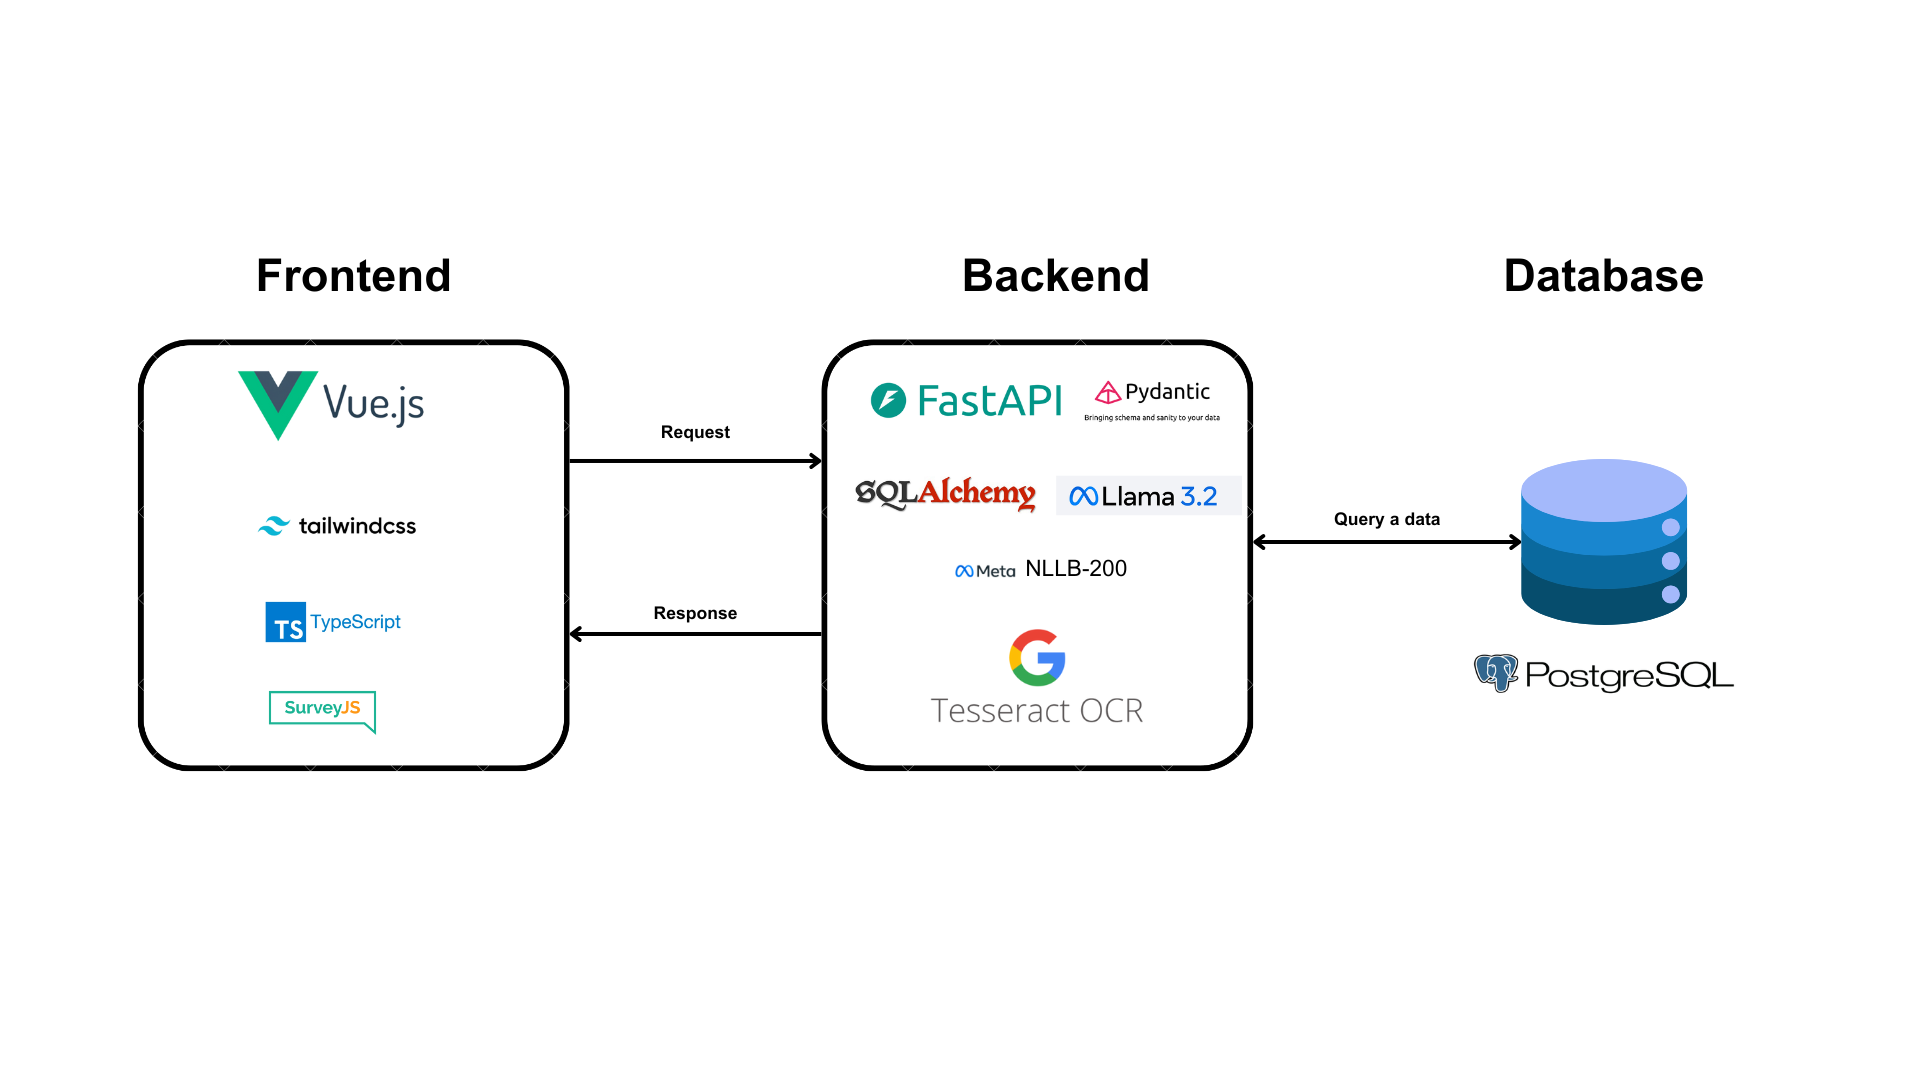
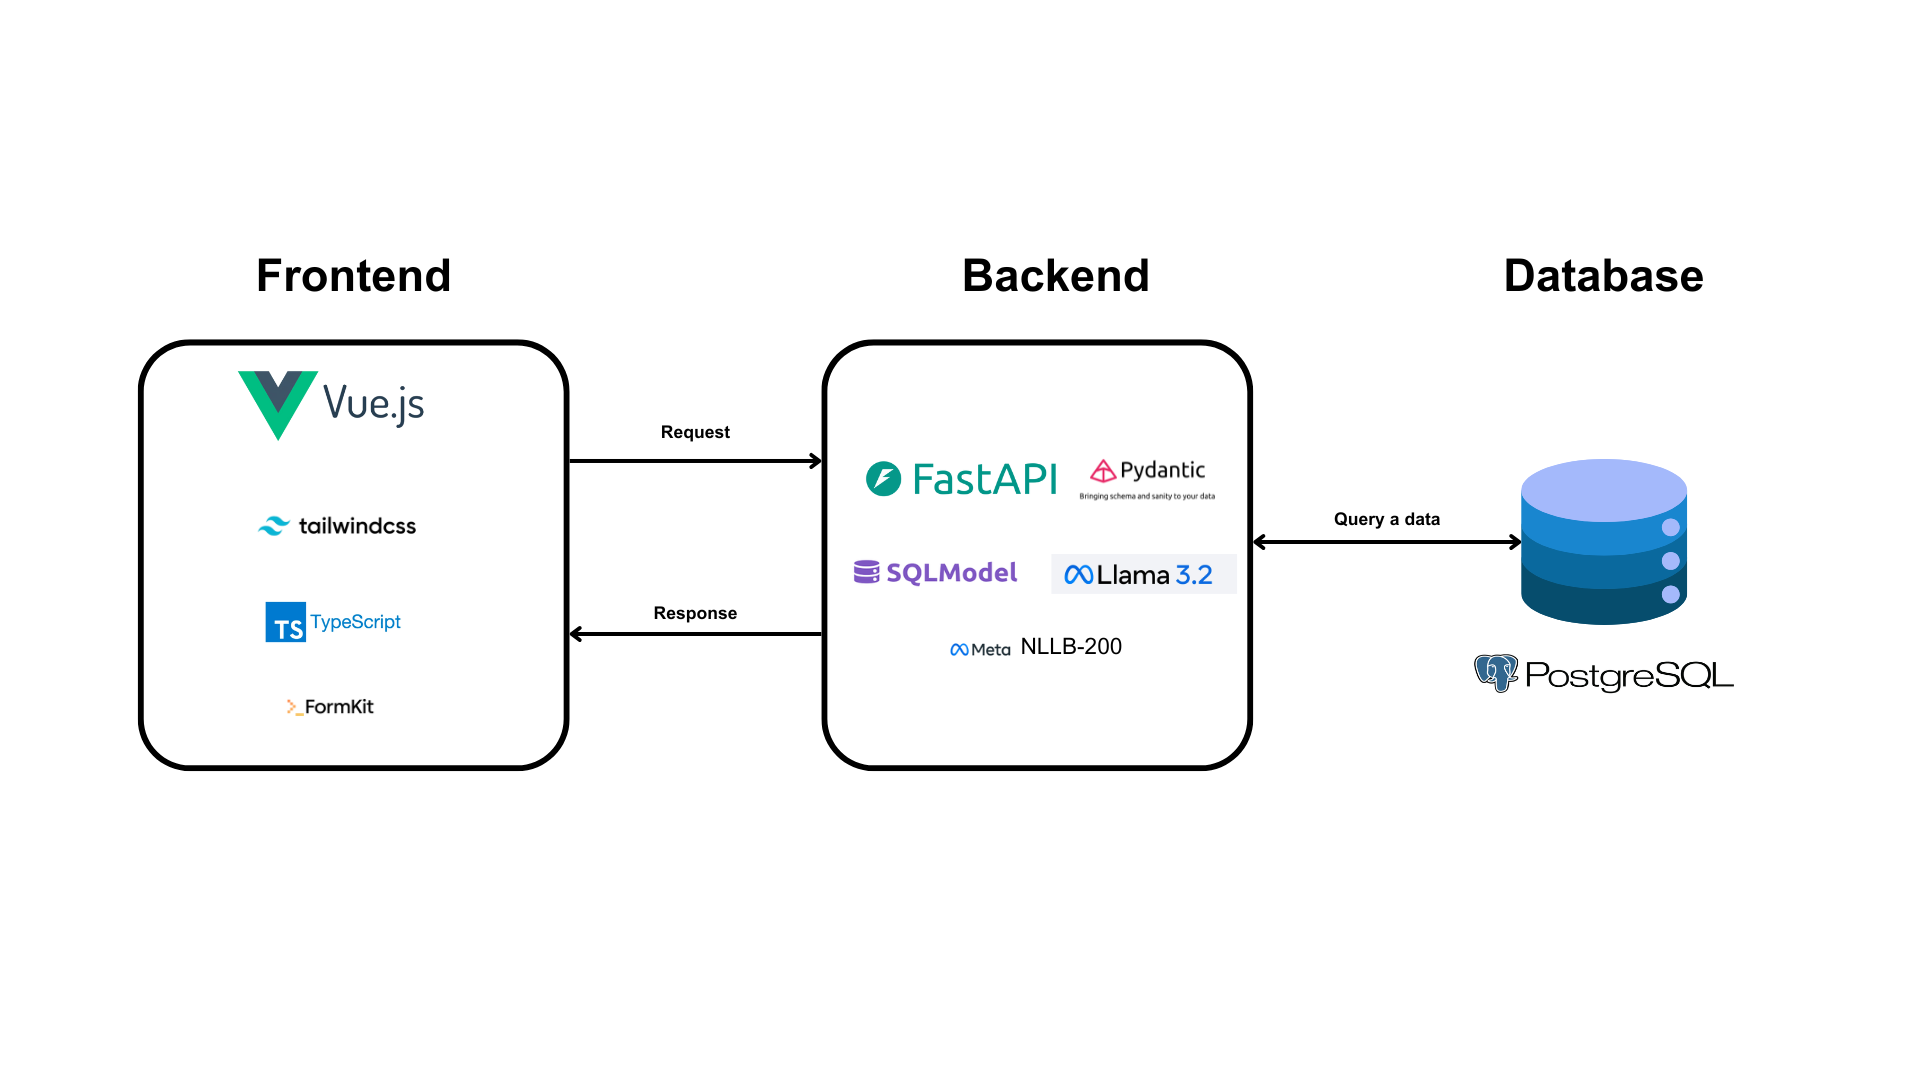
feat: update chap2 with new information PDF text parser

diff --git a/final-report.tex b/final-report.tex
@@ -129,7 +129,7 @@
 \setlength{\parindent}{15pt} The Generative AI for Traditional Form Converter is a project developed through a web application called PaperlessTransform Application, aimed at solving the problem of time-consuming processes involved in converting PDF forms into web applications. This web application leverages artificial intelligence to analyze data types of input labels. As the demand for form conversion continues to increase, system developers are required to analyze a PDF forms structure, design corresponding database structures, create web application interfaces, and develop new systems. These tasks result in significantly increased work time and workload, causing personnel to spend time inefficiently. The goal of this project is to reduce the burden on system developers by automating parts of this workflow. The application is designed to process a PDF file, detect an input fields using parser,  generate an input field data type using AI-powered text analysis, and generate web-based forms accordingly. In addition to form field detection, the system can store form data in a structured format suitable for web deployment, enabling a smoother transition from traditional documents to digital interfaces. The project team has focused on developing a robust system that not only identifies relevant form elements accurately but also simplifies the data handling and form creation process. After testing the web application, results show that it can detect input field within forms and store data at a basic level, demonstrating its practical effectiveness in real-world scenarios. Therefore, it can be concluded that this project addresses the problem of increased work time and inefficiency for system developers, offering an effective tool for automated form conversion and reducing the manual effort required in digitizing traditional forms.
 \begin{flushleft}
 \begin{tabular*}{\textwidth}{@{}lp{0.8\textwidth}}
-\textbf{Keywords}: & Web Application / Optical Character Recognition (OCR) / Database Design
+\textbf{Keywords}: & Web Application / Database Design
 
 \end{tabular*}
 \end{flushleft}
@@ -207,7 +207,7 @@ Finally, we would like to express our thanks to everyone, including our family, 
 AI & Artificial Intelligence\\
 ML & Machine Learning  \\
 NLP & Natural Language Processing  \\
-OCR & Optical Character Recognition  \\
+PDF & Portable Document Format  \\
 UX/UI & User Interface and User Experience
 \end{tabular}
 \end{flushleft}
@@ -308,114 +308,7 @@ Machine Learning is an application of Artificial Intelligence (AI) that provides
     \item \textbf{Semi-supervised learning:} Like a mix of supervised and unsupervised learning. It uses a small amount of labeled data (with answers) and a large amount of unlabeled data (without answers) to train the model. The labeled data helps guide the model, while the unlabeled data helps it find patterns and improve accuracy.
 \end{itemize}
 
-\subsection{Computer Vision (CV)}
-Computer Vision (CV) is a field of AI that uses machine learning to enable computers to interpret and understand visual information from the world, such as images and videos. It combines different methods and technologies. \par
-Key functions of computer vision include analyzing images and videos to extract important information, understanding events and descriptions, and identifying patterns in scenery. CV employs methods that handle large volumes of data, making it applicable across various domains.
 
-\subsection{Image Processing}
-Image processing is the one technique in \textbf{Computer Vision (CV)} that is used to enhance and prepare images for analysis by applying various computational algorithms. In the context of form conversion, image processing plays a critical role in improving the quality of scanned documents or digital images before they undergo text recognition.
-
-\subsubsection{Image Acquisition} The first step in image processing is acquiring the image, where an image is captured using a camera, scanner, or another device. Then the image is converted into a digital format that can be manipulated by algorithms.
-
-\subsubsection{Preprocessing} Preprocessing is a fundamental step where the raw image quality is improved to ensure it is ready for more advanced analysis. This involves techniques such as:
-
-\begin{itemize}
-    \item \textbf{Image Enhancement:}  Image enhancement involves using techniques to improve the visual quality of an image so that important features are more visible. This is especially important when working with scanned documents or photos that may have different lighting conditions, colors, or other visual characteristics that could obscure the text. Here are some common techniques used for image enhancement:
-	\begin{enumerate}
-    		\item \textbf{Grayscale Conversion}
-    		\item \textbf{Histogram Equalization}
-   		 \item \textbf{Thresholding}
-   		 \item \textbf{Contrast Adjustment}
-	\end{enumerate}
- 
-    \item \textbf{Image Restoration:} The Image Restoration process aims to improve the appearance of an image by fixing problems like noise and blurriness. It uses mathematical models to understand how the image got damaged and applies techniques to clean it up. Common techniques involved in image restoration include Noise Reduction and Blur removal 
-\end{itemize}
-
-\subsubsection{Segmentation} The main goal of image segmentation is to divide an image into distinct parts that match real objects or areas in the picture. This process separates important pixels from the rest of the image, resulting in sections that cover the entire image or outlines of objects.
-
-\begin{figure}[H]
-    \centering
-    \includegraphics[width=10cm]{./assets/segmentation.jpg}
-    \caption{Image Segmentation Explained from 
-    \href{https://builtin.com/sites/www.builtin.com/files/styles/ckeditor_optimize/public/inline-images/1_image-segmentation\%202.jpeg}{Builtin.com}.}
-    \label{fig:figure-2.1}  
-\end{figure}
-
-\begin{enumerate}
-    \item[(a)] Original image
-    \item[(b)] Semantic Segmentation
-    \item[(c)] Instance Segmentation
-\end{enumerate}
-
-\subsubsection{Feature Extraction} Once the image has been segmented, the next step is to extract  features that can be used for further analysis, such as character recognition or form field identification. Feature extraction techniques identify important attributes such as: 
-
-\begin{enumerate}
-	\item \textbf{Color Image Processing:} Color image processing is classified into two types:
-	\begin{enumerate}
-		\item \textbf{Full-color processing:}involves images captured using full-color sensors, further divided into:
-			\begin{enumerate}
-			    	\item Individual Component Processing: Each color component (like RGB) is processed separately before creating a composite image.
-			    	\item Direct Color Pixel Manipulation: Color pixels are manipulated directly.
-			\end{enumerate}
-	    	\item \textbf{Pseudo-color processing:} assigns colors to specific gray values based on criteria, utilizing techniques like intensity slicing and color coding.
-	\end{enumerate}
-	\item \textbf{Image Compression:} Image compression reduces the amount of information needed to represent a digital image, primarily to save storage space or reduce bandwidth during transmission. It is categorized into two types:
-	\begin{enumerate}
-	    	\item \textbf{Lossless Compression:} No information is lost during compression.
-	    	\item \textbf{Lossy Compression:} Accepts some loss of information for higher compression rates.
-	\end{enumerate}
-	\newpage %%%ขึ้นหน้าใหม่%%%
-	\item \textbf{Morphological Image Processing:} This technique focuses on extracting and analyzing the shape and structure of objects within an image. Common morphological operators include:
-	\begin{enumerate}
-		\item Boundary extraction
-		\item Region filling
-		\item Skeletonization
-		\item Extraction of connected components
-	\end{enumerate}
-	\item \textbf{Representation and Description:} Post-segmentation, raw pixel data needs to be compacted for further analysis. Representation techniques can focus on external features (like boundaries) or internal features (like pixels covering the region). Common methods include:
-	\begin{enumerate}
-		\item \textbf{Chain Codes and Polygonal Approximations:} representing shapes.
-		\item \textbf{Boundary Descriptors:} Include features like length, diameter, and curvature.
-		\item \textbf{Regional Descriptors:} Describe image regions in terms of area, compactness, gray level statistics, and topological features.
-	\end{enumerate}
-\end{enumerate}
-
-\subsubsection{Object Recognition} Object recognition is the process of identifying and classifying different regions in an image, referred to as patterns or objects. There are two main approaches to object recognition
-
-\begin{enumerate}
-	\item \textbf{Decision-Theoretic Approach:} This method uses numerical descriptions to analyze patterns. It looks at measurable features.
-	\item \textbf{Structural Approach:} This approach focuses on qualitative descriptions, using relational descriptors that describe the relationships and arrangements between different parts of the patterns.
-\end{enumerate}
- 
-\subsection{Optical Character Recognition (OCR)} OCR or Optical Character Recognition is an input device used to read a printed text. OCR scans text in image, analyzes it character by character and converts it into machine-readable code and stores text on the system memory and processes it as a document. OCR is widely used in applications where transforming printed material into editable text.
-
-\subsubsection{OCR Architecture} After \textbf{image processing}, OCR comes into play. It extracts the text from the processed images, analyzing the document character by character to convert it into machine-readable code. It converts printed or handwritten text from forms into digital text, which can then be manipulated and stored. Once OCR extracts the raw text, \textbf{text processing} helps clean, format, and analyze this text.
-
-\begin{figure}[H]
-\centering
-\includegraphics[width=10cm]{./assets/OCR-Process.png}
-\caption{OCR Process}
-\caption{OCR Process from 
-\href{https://www.researchgate.net/profile/Adrian-Gomez-9/publication/281099638/figure/fig4/AS:614266293997575@1523463905255/Architecture-diagram-for-the-OCR-alternative.png}{Researchgate.net}.}
-\label{fig:figure-2.2}
-\end{figure}
-
-\subsubsection{Post OCR error correction} After Extract the text from the image, The OCR are required a post OCR error correction because the text that the OCR have extracted may not misspelling and character miss order and the post OCR have following approach.
-
-\begin{enumerate}
-	\item \textbf{Symmetric Delete Spelling Correction:} Symmetric Delete Spelling Correction is works by generating possible corrections for misspelled words using a deletion-based algorithm. First, a precomputed dictionary is built by selecting valid words and generating variations with up to N deleted characters. These variations function as keys, leading back to the correct words. When a user types a misspelled word, the algorithm generates similar deletions and looks for matches in the precomputed dictionary. If a match is found, the appropriate word is suggested.
-\newpage %%%ขึ้นหน้าใหม่%%%	
-	\item \textbf{TF-IDF and Cosine Similarity:} TF-IDF is a technique that use to change a word into number or vector and the cosine similarity is a technique that use to measure how similar between two documents, and we will use a dictionary and convert it into vector, then compare with error word and find the closest distance.
-	
-\[
-\text{TF-IDF}(t, d) = \text{TF}(t, d) \times \text{IDF}(t)
-\]
-	
-\[
-\text{Cosine Similarity} = \frac{\sum_{i=1}^{n} A_i B_i}{\sqrt{\sum_{i=1}^{n} A_i^2} \times \sqrt{\sum_{i=1}^{n} B_i^2}}
-\]
-
-\end{enumerate}
 
 \subsection{Natural Language Processing (NLP)} Natural Language Processing (NLP) enables machines to understand, interpret, and generate human language in a valuable way. The process involves several key techniques: Tokenization: Breaking down text into smaller units (tokens), such as words or phrases, which can be analyzed separately. Stop Word Removal: Eliminates common words that provide little informational value, focusing on more meaningful words. Lemmatization and Stemming: Reduces words to their root forms to unify different inflected versions (e.g., "walking" becomes "walk"). Part-of-Speech Tagging: Assigns tags to words based on their grammatical roles (nouns, verbs, adjectives, etc.).
 
@@ -438,6 +331,51 @@ In the past, AI models like Variational Autoencoders (VAEs) and Generative Adver
 	\item \textbf{Decoder-only models} (such as GPT): Focus on predicting the next word and are good at creating new text.
 	\item \textbf{Encoder-decoder models} (such as T5): Combine both approaches and can handle tasks like summarizing or translating text.
 \end{enumerate}
+
+
+\subsection{Portable Document Format.}
+
+The Portable Document Format (PDF) is developed by Adobe in early 1993, it is a file format designed to display documents consistently across device and platform. The strength is preserve the formatting, fonts, images, and layout of the original document, ensuring a consistent and reliable presentation. A PDF file can include a varies type of content, such as text, image, vector graphics, hyperlinks, forms, annotations and even multimedia elements like audio and video.
+
+\subsubsection {PDF Categories}
+
+\begin{enumerate}
+	\item \textbf{PDF}: A standard PDF format, It is often used for sharing and viewing files online.
+	
+	\item \textbf{PDF/A} : For long-term archiving; restricts elements like JavaScript and multimedia.
+	
+	\item \textbf{PDF/E} : Tailored for engineering, construction, and manufacturing documents.
+	
+	\item \textbf{PDF/X} : Preferred by print and graphic professionals for consistent visual output.
+	
+	\item \textbf{PDF/VT} : Like PDF/X but allows variable and transactional printing (customization).
+	
+	\item \textbf{PDF/UA} : Accessible format supporting assistive technologies for users with disabilities.
+
+	\item \textbf{PAdEs} : Standard for legally binding electronic signatures.
+
+	\item \textbf{PDF Healthcare} : Ensures best practices for healthcare-related data handling.
+
+	\item \textbf{Searchable PDF} : Combines image-based content with searchable text via OCR.
+
+\end{enumerate}
+
+\subsubsection {PDF File Structure}
+
+The PDF file is consists of four part component that describe every pdf file, And all information in pdf is represent in ASCII 
+
+\begin{enumerate}
+	\item \textbf{Header}: The first line of the PDF file that specific the version of the PDF.
+	\item \textbf{Body} : Contains the document’s main content, including pages, text, and images.
+	\item \textbf{Cross-reference table (XRef)} :  Indexes the locations of all objects in the file.
+	\item \textbf{Trailer} : Provides structural information and indicates the starting point for reading the document.
+\end{enumerate}
+
+
+\subsection{Text Parser}
+
+Text Parser is a process for analyzes and processes text to extract meaningful information or convert it into a structured format.
+
 
 \subsection{Security of Web Form} Web form security is essential as these forms are highly vulnerable to cyberattacks, making them prime targets for malicious parties aiming to access sensitive user data. 
 Common threats include:
@@ -483,24 +421,19 @@ Common threats include:
 
 \subsubsection{TailwindCSS} Tailwind CSS is a utility-focused CSS framework that simplifies web development by providing pre-designed utility classes. These utility classes allow you to create custom designs.
 
-\subsubsection{SurveyJS} SurveyJS is a set of JavaScript components that allow users to build surveys, quizzes, polls, and other web forms, store them in your database, and visualize survey results in custom dashboards.
+\subsubsection{Formkit} Formkit is modern form-building library for Vue.js, designed to help developers create and manage forms with minimal effort and maximum flexibility.
 
 \subsection{Backend Technology}
 \subsubsection{FastAPI} FastAPI is a modern web framework for creating Python APIs that prioritizes speed, ease of development, and automated validation. It has gained popularity for developing quick, high-performance APIs because it uses Python type hints to provide explicit, automatic data validation and interactive API documentation.
 
 \subsubsection{Pydantic} Pydantic is a Python data validation and parsing library that enforces data types and restrictions using Python type annotations. Although it can be used separately, it is an essential part of FastAPI. With Pydantic models, you can easily serialize data, validate incoming data, and specify the structure of your data.
 
-\subsubsection{SQLAlchemy} SQLAlchemy is the Python SQL toolkit and Object Relational Mapper that gives application developers the full power and flexibility of SQL without creating a SQL statement.
+\subsubsection{SQLModel} SQLModel is the Python SQL toolkit and Object Relational Mapper that gives application developers the full power and flexibility of SQL without creating a SQL statement.
 
 \subsubsection{PostgresSQL} The PostgreSQL popular open-source relational database management system (RDBMS) for managing and storing data. It is renowned for being reliable, effective, and compliant with SQL standards. And It support storing a json format data type which it can be act as NoSQL in some situation.
 
 \subsection{Document Processing}
 \subsubsection{Python} Python Programming language is a popular high-level computer programming language for machine learning because it is simple to use and easy to read and write. Additionally, it has a fast processing speed. Web development, data analysis, automation, scientific computing, and many more topics are among the many libraries available.
-\newpage %%%ขึ้นหน้าใหม่%%%
-\subsubsection{Open Source Computer Vision Library (OpenCV)} Open Source Computer Vision Library is an open-source library designed for real-time computer vision and image processing. It provides tools for tasks such as object detection, image segmentation, facial recognition, and edge detection. OpenCV is widely used in fields like robotics, augmented reality, and machine learning.\par
-OpenCV processes image data using built-in functions for manipulating pixel values. It works with image and video formats and can be integrated with machine learning models to perform visual recognition tasks. It supports various languages, including Python
-
-\subsubsection{Tesseract OCR} Tesseract OCR is an open-source Optical Character Recognition (OCR) engine used to convert images of text into machine-encoded text. Developed by Hewlett-Packard and maintained by Google, it supports various languages and one of them is python, making it highly versatile for tasks like digitizing printed materials, extracting text from images, and enhancing accessibility in digital applications. It is commonly integrated with other image processing libraries like OpenCV to handle pre-processing tasks, improving text recognition accuracy, especially in noisy or distorted images.
 
 \subsubsection{NLLB-200} NLLB-200 (No Language Left Behind) is a project by Meta (Facebook) that focuses on creating AI models capable of translating between 200 languages.
 
